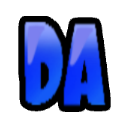
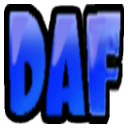
Re-brand to DAF

diff --git a/manifest/content_tab.js b/manifest/content_tab.js
@@ -455,7 +455,7 @@ function initialize() {
 #DAF a:hover { background-color:rgba(0,0,0,0.7); color:#000; }
 #DAF a:hover b { background-color:#FF0; color:#00F; }
 #DAF { height:calc(1em + 13px); 
-  background-position:6px 6px; background-repeat:no-repeat;
+  background-position:3px 3px; background-repeat:no-repeat;
   background-image:url("` + chrome.extension.getURL('img/daf-small.png') + `");
 }
 #DAF b { display:none; }
